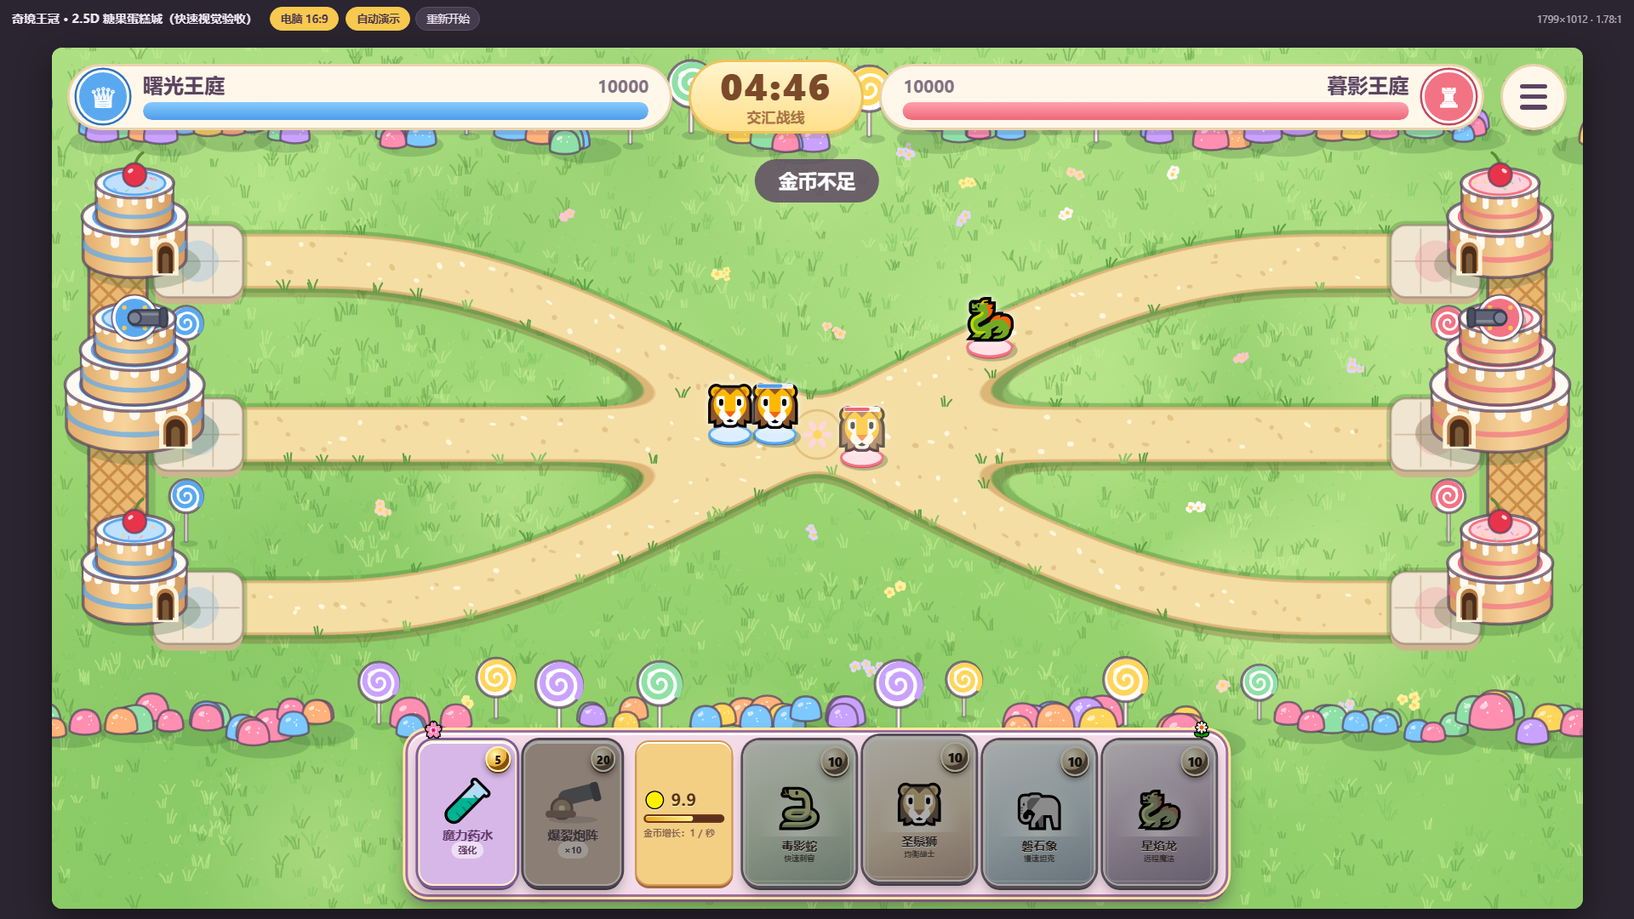
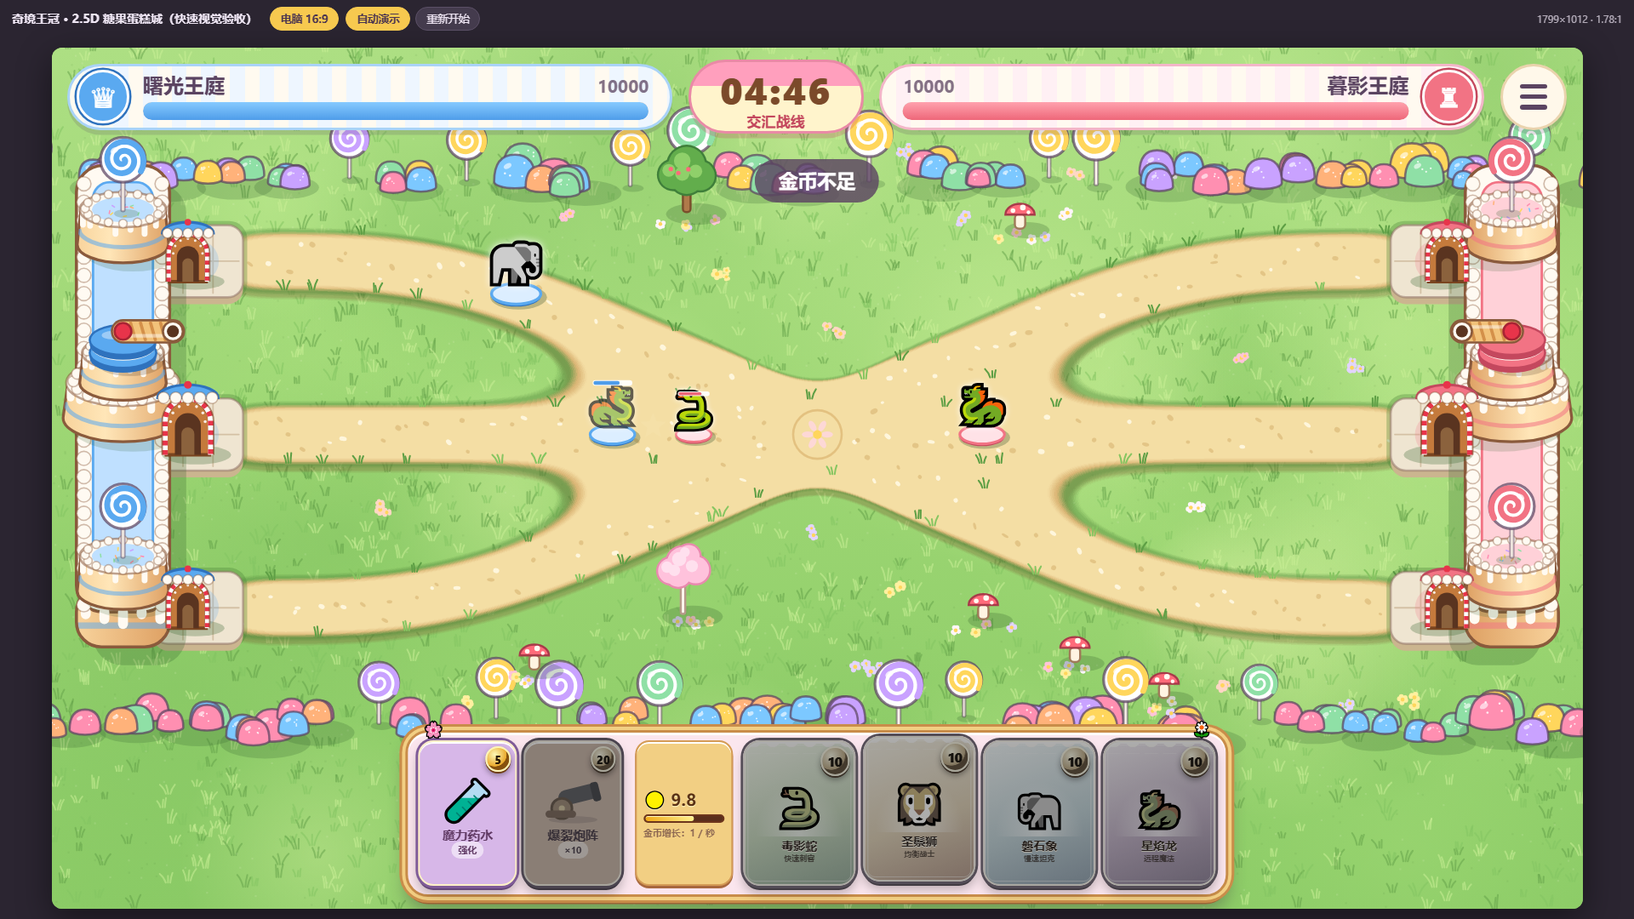
design: 2.5D preview round 2 - cake palace, candy cannon, scenery, candy HUD

diff --git a/design/ui-preview-25d.html b/design/ui-preview-25d.html
@@ -133,6 +133,15 @@ body.fill #stage{border-radius:0;box-shadow:none}
 #hand .skill.burst{margin-right:.45rem}
 #hand .coins{margin-right:.2rem}
 
+/* 糖果风顶栏与托盘 */
+.plate.panel{background:repeating-linear-gradient(90deg,#fffaf0 0 1.1rem,#fff0f4 1.1rem 2.2rem);border-color:#f3b6c8}
+.plate.player.panel{background:repeating-linear-gradient(90deg,#fffaf0 0 1.1rem,#eef6ff 1.1rem 2.2rem);border-color:#a9d3f7}
+.timer{background:linear-gradient(#ff9fbd 0 34%,#fff4cc 34%);border-color:#e98aa6;box-shadow:0 .35rem 0 rgba(196,72,94,.25)}
+.timer b{margin-top:.6rem}
+.timer small{color:#c4485e}
+#hand{border-color:#c98d4a;background:#fbe6ee;box-shadow:inset 0 .19rem 0 #fff,0 0 0 max(1.5px,.25rem) #f2cf83,0 0 0 max(2.5px,.45rem) #c98d4a,0 .55rem 0 #9c6436,0 .95rem 1.2rem rgba(56,40,61,.35)}
+.card{background:radial-gradient(circle at 50% 0,#fffaf2 .5rem,transparent .53rem) 0 -.12rem/1.4rem 1rem repeat-x,var(--card-bg)}
+
 /* ---------- 竖屏提示（仅自适应模式） ---------- */
 #rotate{position:absolute;inset:0;display:none;place-content:center;text-align:center;gap:12px;background:#2b2531;color:#fff;font-size:16px;z-index:5}
 #rotate .ico{font-size:44px;font-family:var(--emoji)}
@@ -329,7 +338,7 @@ function buildGeometry(w, h) {
     wy0: ys[0] - rw * 1.05, wy1: ys[2] + rw * 1.05,
     unitR: rw * .3,
     k: L / 1070,                                    // 原版道路长 1070 px → 当前像素的换算系数
-    pivot: { player: { x: m + T * .7, y: ys[1] + road * .25 - T * (.82 * .38 * .8 + 1.3) }, enemy: { x: w - m - T * .7, y: ys[1] + road * .25 - T * (.82 * .38 * .8 + 1.3) } }
+    pivot: { player: { x: m + T * .56, y: ys[1] - T * .98 }, enemy: { x: w - m - T * .56, y: ys[1] - T * .98 } }
   };
 }
 
@@ -399,7 +408,7 @@ function roadMask(F, width, color, dpr) {
   circle(ga, F.cx, F.cy, F.road * .62 + (width - F.road) / 2); ga.fill();
   const b = document.createElement('canvas'); b.width = W; b.height = H;
   const gb = b.getContext('2d', { willReadFrequently: true });
-  const sigma = F.road * .45, edge = .5 * erf(width / (sigma * Math.SQRT2)) * 255, lo = edge - 3, hi = edge + 3;
+  const sigma = F.road * .8, edge = .5 * erf(width / (sigma * Math.SQRT2)) * 255, lo = edge - 3, hi = edge + 3;
   gb.filter = `blur(${(sigma * dpr).toFixed(1)}px)`; gb.drawImage(a, 0, 0); gb.filter = 'none';
   const img = gb.getImageData(0, 0, W, H), d = img.data;
   for (let i = 3; i < d.length; i += 4) { const v = d[i]; d[i] = v <= lo ? 0 : v >= hi ? 255 : (v - lo) / (hi - lo) * 255; d[i - 3] = d[i - 2] = d[i - 1] = 255; }
@@ -462,6 +471,31 @@ function drawPlatforms(g, F) {
     }
   }
 }
+function drawTree(g, x, y, r, rnd, S0, kind) {
+  const lw = Math.max(1, 1.5 * S0);
+  g.fillStyle = 'rgba(52,96,44,.25)'; g.beginPath(); g.ellipse(x + r * .3, y + r * .08, r * .95, r * .34, 0, 0, TAU); g.fill();
+  if (kind === 'mush') {
+    g.fillStyle = '#fff4e2'; g.strokeStyle = '#a07a5a'; g.lineWidth = lw; rr(g, x - r * .22, y - r * .6, r * .44, r * .62, r * .18); g.fill(); g.stroke();
+    g.fillStyle = '#ff6b7a'; g.strokeStyle = '#a83a4a'; g.beginPath(); g.ellipse(x, y - r * .58, r * .62, r * .46, 0, Math.PI, 0); g.closePath(); g.fill(); g.stroke();
+    g.fillStyle = '#fffaf2'; for (const [dx, dy, dr] of [[-.3, -.75, .1], [.12, -.88, .12], [.36, -.68, .08]]) { circle(g, x + dx * r, y + dy * r, dr * r); g.fill(); }
+    return;
+  }
+  if (kind === 'cotton') {
+    g.fillStyle = '#fffaf2'; g.strokeStyle = '#b89a8a'; g.lineWidth = lw; rr(g, x - r * .07, y - r * 1.15, r * .14, r * 1.15, r * .07); g.fill(); g.stroke();
+    const c = rnd() < .5 ? ['#ffc2dc', '#ffe0ee', '#e98aae'] : ['#bfe3ff', '#e2f2ff', '#7cb8e8'];
+    const puffs = [[0, -1.6, .5], [-.38, -1.35, .4], [.4, -1.38, .42], [-.15, -1.25, .4], [.18, -1.82, .34]];
+    for (const [dx, dy, pr] of puffs) { circle(g, x + dx * r, y + dy * r, pr * r + lw); g.fillStyle = c[2]; g.fill(); }
+    for (const [dx, dy, pr] of puffs) { circle(g, x + dx * r, y + dy * r, pr * r); g.fillStyle = c[0]; g.fill(); }
+    for (const [dx, dy, pr] of puffs) { circle(g, x + (dx - .12) * r, y + (dy - .12) * r, pr * r * .45); g.fillStyle = c[1]; g.fill(); }
+    return;
+  }
+  g.fillStyle = '#b07a4a'; g.strokeStyle = '#7a4f2c'; g.lineWidth = lw; rr(g, x - r * .12, y - r * .9, r * .24, r * .92, r * .1); g.fill(); g.stroke();
+  const leaves = [[0, -1.45, .58], [-.42, -1.15, .45], [.42, -1.12, .46], [0, -1.05, .5]];
+  for (const [dx, dy, pr] of leaves) { circle(g, x + dx * r, y + dy * r, pr * r + lw); g.fillStyle = '#3f7f3a'; g.fill(); }
+  for (const [dx, dy, pr] of leaves) { circle(g, x + dx * r, y + dy * r, pr * r); g.fillStyle = '#62ad4c'; g.fill(); }
+  for (const [dx, dy, pr] of leaves) { circle(g, x + (dx - .14) * r, y + (dy - .14) * r, pr * r * .45); g.fillStyle = '#8fd06a'; g.fill(); }
+  g.fillStyle = '#ff6b7a'; for (let k = 0; k < 3; k++) { circle(g, x + (rnd() - .5) * r, y - r * (1.1 + rnd() * .5), r * .07); g.fill(); }
+}
 function drawGround(g, F) {
   const { w, h, rw, S0 } = F, rnd = rng(20261006);
   const base = g.createLinearGradient(0, 0, 0, h);
@@ -492,9 +526,22 @@ function drawGround(g, F) {
   // 上下边缘灌木带（远离三路，压在 HUD 背后）
   const br = rw * .5, step = br * 1.7;
   for (let x = -br * .5; x < w + br; x += step * (.8 + rnd() * .4)) {
-    drawBush(g, x, Math.min(F.ys[0] - rw * 1.45, F.top) - rnd() * br * .5, br * (.75 + rnd() * .35), rnd, S0);
+    drawBush(g, x, Math.min(F.ys[0] - rw * 1.45, F.top) + br * 1.2 - rnd() * br * .3, br * (.75 + rnd() * .35), rnd, S0);
     drawBush(g, x + step * .5, Math.max(F.ys[2] + rw * 1.55, F.bottom - br * .2) + rnd() * br * .6, br * (.8 + rnd() * .35), rnd, S0);
   }
+  // 空白草地点缀：树、棉花糖树、小蘑菇，周围带几朵花；中央交汇区保持干净
+  const deco = [];
+  for (let i = 0; i < 260 && deco.length < 20; i++) {
+    const x = lerp(F.x1L + rw * 1.5, F.x1R - rw * 1.5, rnd()), y = lerp(F.ys[0] - rw * .8, F.ys[2] + rw * 1.3, rnd());
+    if (Math.abs(x - F.cx) < rw * 1.3 || !farFromRoads(F, x, y, rw * .95)) continue;
+    if (deco.some(d => Math.hypot(d.x - x, d.y - y) < rw * 1.15)) continue;
+    deco.push({ x, y, k: rnd() });
+  }
+  deco.sort((a, b) => a.y - b.y).forEach(d => {
+    const kind = d.k < .38 ? 'tree' : d.k < .68 ? 'cotton' : 'mush';
+    for (let j = 0; j < 4; j++) drawFlower(g, d.x + (rnd() - .5) * rw * .9, d.y + rw * (.05 + rnd() * .2), Math.max(1.2, 2.2 * S0), pet[j % pet.length], rnd);
+    drawTree(g, d.x, d.y, rw * (kind === 'mush' ? .34 : .46), rnd, S0, kind);
+  });
   // 交汇区内侧四块草地各一丛
   for (const [fx, fy] of [[.3, -.5], [.7, -.5], [.3, .5], [.7, .5]]) {
     const x = lerp(F.rs, F.re, fx), y = F.cy + fy * F.s;
@@ -531,105 +578,102 @@ function drawRoundTower(g, F, x, y, r, team, flagT) {
   g.fillStyle = team.main; g.strokeStyle = '#fff'; g.lineWidth = Math.max(1, 1.4 * S0);
   g.beginPath(); g.moveTo(x, y - r * .1); g.quadraticCurveTo(x + T * .45, y - r * .3 + wave, x + T * .85, y - r * .45 + wave); g.lineTo(x, y - r * .8); g.closePath(); g.fill(); g.stroke();
 }
-const CAKE_SQUASH = .38;
+const CAKE_SQUASH = .4, CAKE_LINE = '#8a5a3c';
+function cream(g, x, y, r, S0) { circle(g, x, y, r); g.fillStyle = '#fffaf2'; g.fill(); g.strokeStyle = 'rgba(138,90,60,.4)'; g.lineWidth = Math.max(.8, S0); g.stroke(); }
 function cakeTier(g, F, cx, by, rx, h, team, rnd) {
-  const ry = rx * CAKE_SQUASH, S0 = F.S0, lw = Math.max(1.2, 2.2 * S0);
-  // 侧面：海绵蛋糕
-  const side = new Path2D(); side.moveTo(cx - rx, by - h); side.lineTo(cx - rx, by); side.ellipse(cx, by, rx, ry, 0, Math.PI, 0, true); side.lineTo(cx + rx, by - h); side.closePath();
-  const sg = g.createLinearGradient(cx - rx, 0, cx + rx, 0); sg.addColorStop(0, '#e2ad6c'); sg.addColorStop(.42, '#f7d49c'); sg.addColorStop(1, '#d59a5c');
-  g.fillStyle = sg; g.fill(side); g.strokeStyle = INK; g.lineWidth = lw; g.stroke(side);
-  // 果酱夹层
-  g.save(); g.clip(side); g.strokeStyle = team.main; g.globalAlpha = .7; g.lineWidth = h * .13;
-  g.beginPath(); g.ellipse(cx, by - h * .42, rx, ry, 0, 0, Math.PI); g.stroke(); g.restore();
-  // 顶部奶油 + 前侧滴落
+  const ry = rx * CAKE_SQUASH, rt = rx * .92, rty = rt * CAKE_SQUASH, S0 = F.S0, lw = Math.max(1.2, 2 * S0), ty = by - h;
+  const side = new Path2D(); side.moveTo(cx - rt, ty); side.lineTo(cx - rx, by); side.ellipse(cx, by, rx, ry, 0, Math.PI, 0, true); side.lineTo(cx + rt, ty); side.closePath();
+  const sg = g.createLinearGradient(cx - rx, 0, cx + rx, 0); sg.addColorStop(0, '#f8d39c'); sg.addColorStop(.35, '#ffe6b8'); sg.addColorStop(1, '#dea063');
+  g.fillStyle = sg; g.fill(side); g.strokeStyle = CAKE_LINE; g.lineWidth = lw; g.stroke(side);
+  g.save(); g.clip(side); g.strokeStyle = team.main; g.globalAlpha = .55; g.lineWidth = h * .12;
+  g.beginPath(); g.ellipse(cx, by - h * .45, (rx + rt) / 2, ry, 0, 0, Math.PI); g.stroke(); g.restore();
   g.fillStyle = '#fffaf2';
-  g.beginPath(); g.ellipse(cx, by - h, rx * 1.02, ry * 1.02, 0, 0, TAU); g.fill();
-  for (let k = 0; k < 7; k++) {
-    const a = .12 * Math.PI + k / 6 * .76 * Math.PI, x = cx + Math.cos(a) * rx * .98, y = by - h + Math.sin(a) * ry, len = h * (.18 + ((k * 37) % 5) * .05);
-    rr(g, x - rx * .08, y - ry * .2, rx * .16, len + ry * .2, rx * .08); g.fill();
-  }
-  g.strokeStyle = INK; g.lineWidth = lw; g.beginPath(); g.ellipse(cx, by - h, rx * 1.02, ry * 1.02, 0, 0, TAU); g.stroke();
-  // 阵营色糖霜 + 糖粒
-  g.fillStyle = team.light; g.beginPath(); g.ellipse(cx, by - h, rx * .8, ry * .8, 0, 0, TAU); g.fill();
-  g.strokeStyle = team.main; g.lineWidth = Math.max(1, 1.8 * S0); g.stroke();
+  for (let k = 0; k < 8; k++) { const a = .1 * Math.PI + k / 7 * .8 * Math.PI, x = cx + Math.cos(a) * rt, y = ty + Math.sin(a) * rty; rr(g, x - rt * .07, y - rty * .2, rt * .14, h * (.22 + ((k * 37) % 5) * .06), rt * .07); g.fill(); }
+  g.beginPath(); g.ellipse(cx, ty, rt * 1.03, rty * 1.05, 0, 0, TAU); g.fill(); g.strokeStyle = 'rgba(138,90,60,.55)'; g.lineWidth = lw * .8; g.stroke();
+  g.fillStyle = team.light; g.beginPath(); g.ellipse(cx, ty, rt * .74, rty * .74, 0, 0, TAU); g.fill();
   for (let k = 0; k < 9; k++) {
-    const a = rnd() * TAU, d = .25 + rnd() * .45; g.save(); g.translate(cx + Math.cos(a) * rx * d, by - h + Math.sin(a) * ry * d); g.rotate(rnd() * TAU);
-    g.fillStyle = CANDY[k % CANDY.length]; rr(g, -rx * .06, -rx * .018, rx * .12, rx * .036, rx * .018); g.fill(); g.restore();
+    const a = rnd() * TAU, d = .15 + rnd() * .45; g.save(); g.translate(cx + Math.cos(a) * rt * d, ty + Math.sin(a) * rty * d); g.rotate(rnd() * TAU);
+    g.fillStyle = CANDY[k % CANDY.length]; rr(g, -rt * .05, -rt * .016, rt * .1, rt * .032, rt * .016); g.fill(); g.restore();
   }
-  return ry;
+  for (let k = 0; k < 16; k++) { const a = k / 16 * TAU; cream(g, cx + Math.cos(a) * rt * .9, ty + Math.sin(a) * rty * .9 - rt * .03, rt * .1, S0); }
+  return ty;
 }
-function cakeGate(g, F, cx, by, rx, ry, h) {
-  const gx = cx + rx * .6, gb = by + ry * .78, aw = rx * .42, ah = h * .8, S0 = F.S0;
-  const arch = (w, top) => { g.beginPath(); g.moveTo(gx - w / 2, gb); g.lineTo(gx - w / 2, top + w / 2); g.arc(gx, top + w / 2, w / 2, Math.PI, 0); g.lineTo(gx + w / 2, gb); g.closePath(); };
-  arch(aw, gb - ah); g.fillStyle = '#b77a45'; g.fill(); g.strokeStyle = '#fff2d8'; g.lineWidth = Math.max(1.5, 3 * S0); g.stroke();
-  arch(aw * .66, gb - ah * .82); g.fillStyle = '#4a2c1a'; g.fill();
-  g.fillStyle = 'rgba(255,214,140,.28)'; arch(aw * .3, gb - ah * .6); g.fill();
-}
-function cherry(g, F, x, y, r) {
-  g.strokeStyle = '#5f8a3a'; g.lineWidth = Math.max(1.2, 2.2 * F.S0); g.lineCap = 'round';
-  g.beginPath(); g.moveTo(x, y - r * .7); g.quadraticCurveTo(x + r * .2, y - r * 1.6, x + r * .7, y - r * 1.9); g.stroke();
-  circle(g, x, y, r); g.fillStyle = '#e8344a'; g.fill(); g.strokeStyle = INK; g.lineWidth = Math.max(1, 1.6 * F.S0); g.stroke();
-  g.fillStyle = 'rgba(255,255,255,.8)'; g.beginPath(); g.ellipse(x - r * .35, y - r * .35, r * .25, r * .16, -.6, 0, TAU); g.fill();
+function gingerGate(g, F, x, base, w, h, team) {
+  const S0 = F.S0, lw = Math.max(1.5, 2.4 * S0);
+  const arch = (ww, hh) => { g.beginPath(); g.moveTo(x - ww / 2, base); g.lineTo(x - ww / 2, base - hh + ww / 2); g.arc(x, base - hh + ww / 2, ww / 2, Math.PI, 0); g.lineTo(x + ww / 2, base); };
+  g.fillStyle = 'rgba(52,96,44,.28)'; g.beginPath(); g.ellipse(x + w * .2, base, w * .8, w * .22, 0, 0, TAU); g.fill();
+  arch(w, h); g.closePath(); g.fillStyle = '#c47a3c'; g.fill(); g.strokeStyle = '#7a4520'; g.lineWidth = lw; g.stroke();
+  g.fillStyle = 'rgba(255,255,255,.85)'; for (let k = 0; k < 7; k++) { const a = Math.PI + k / 6 * Math.PI; circle(g, x + Math.cos(a) * w * .4, base - h + w / 2 + Math.sin(a) * w * .4, Math.max(1, w * .035)); g.fill(); }
+  arch(w * .6, h * .76); g.closePath(); g.fillStyle = '#5a3420'; g.fill();
+  arch(w * .3, h * .5); g.closePath(); g.fillStyle = 'rgba(255,206,130,.3)'; g.fill();
+  arch(w * 1.06, h * 1.03); g.lineCap = 'butt'; g.lineWidth = w * .13; g.strokeStyle = '#fff'; g.stroke();
+  g.setLineDash([w * .11, w * .11]); g.strokeStyle = '#e8344a'; g.stroke(); g.setLineDash([]);
+  g.lineWidth = Math.max(1, 1.2 * S0); g.strokeStyle = 'rgba(122,69,32,.6)'; arch(w * 1.19, h * 1.07); g.stroke();
+  const ay = base - h * 1.04, aw = w * 1.4;
+  g.beginPath(); g.ellipse(x, ay, aw / 2, w * .3, 0, Math.PI, 0); g.closePath(); g.fillStyle = team.main; g.fill(); g.strokeStyle = team.dark; g.lineWidth = lw * .8; g.stroke();
+  for (let k = 0; k < 5; k++) cream(g, x - aw / 2 + aw * (k + .5) / 5, ay, aw / 10.5, S0);
+  circle(g, x, ay - w * .3, w * .09); g.fillStyle = '#e8344a'; g.fill();
 }
 function drawWall(g, F, side, st) {
-  const { T, ys, S0 } = F, team = TEAM[side], cx = F.m + T * .7, rnd = rng(side === 'player' ? 21 : 37);
+  const { T, ys, S0 } = F, team = TEAM[side], rnd = rng(side === 'player' ? 21 : 37), lw = Math.max(1.2, 2.2 * S0);
   g.save();
   if (side === 'enemy') { g.translate(F.w, 0); g.scale(-1, 1); }
   if (st.shake > 0) g.translate((Math.random() - .5) * 4 * S0 * st.shake, (Math.random() - .5) * 2 * S0 * st.shake);
-  const baseY = (y, rx0) => y + F.road * .25 - rx0 * CAKE_SQUASH * .78;
-  // 身后的威化饼墙
-  const wx = cx - T * .55, ww = T * .7, wh = T * .5, wy0 = ys[0], wy1 = ys[2];
-  g.fillStyle = 'rgba(52,96,44,.2)'; rr(g, wx + T * .1, wy0, ww, wy1 - wy0 + T * .2, T * .15); g.fill();
-  g.fillStyle = '#c98d4a'; rr(g, wx, wy1 - wh, ww, wh, T * .1); g.fill();
-  g.save(); rr(g, wx, wy0 - wh, ww, wy1 - wy0, T * .12); g.fillStyle = '#e9b872'; g.fill(); g.clip();
-  g.strokeStyle = '#c98d4a'; g.lineWidth = Math.max(1, 2 * S0); g.beginPath();
-  for (let k = -20; k < 40; k++) { const o = k * T * .22; g.moveTo(wx, wy0 - wh + o); g.lineTo(wx + ww, wy0 - wh + o + ww); g.moveTo(wx + ww, wy0 - wh + o); g.lineTo(wx, wy0 - wh + o + ww); }
-  g.stroke(); g.restore();
-  rr(g, wx, wy0 - wh, ww, wy1 - wy0, T * .12); g.strokeStyle = INK; g.lineWidth = Math.max(1.2, 2.2 * S0); g.stroke();
-  // 塔：从上到下画，保证前面的塔压住后面的
-  const tower = (i, tiers, top) => {
-    let by = baseY(ys[i], tiers[0][0] * T);
-    g.fillStyle = 'rgba(52,96,44,.25)'; g.beginPath(); g.ellipse(cx + T * .1, by + T * .08, tiers[0][0] * T * 1.12, tiers[0][0] * T * CAKE_SQUASH * 1.25, 0, 0, TAU); g.fill();
-    tiers.forEach(([rf, hf], k) => {
-      const rx = rf * T, h = hf * T, ry = cakeTier(g, F, cx, by, rx, h, team, rnd);
-      if (k === 0) cakeGate(g, F, cx, by, rx, ry, h);
-      by -= h;
-    });
-    if (top === 'cherry') cherry(g, F, cx, by - T * .1, T * .14);
-  };
-  tower(0, [[.62, .5], [.46, .4]], 'cherry');
-  lolly(g, cx + T * .62, (ys[0] + ys[1]) / 2 + T * .25, T * .2, team.main, S0, T * .55);
-  tower(1, [[.82, .5], [.64, .42], [.48, .38]], 'cannon');
-  lolly(g, cx + T * .62, (ys[1] + ys[2]) / 2 + T * .25, T * .2, team.main, S0, T * .55);
-  tower(2, [[.62, .5], [.46, .4]], 'cherry');
-  if (st.flash > 0) { g.globalCompositeOperation = 'lighter'; g.fillStyle = `rgba(255,255,255,${st.flash * .35})`; rr(g, F.m - T * .4, ys[0] - T * 1.4, T * 2.2, ys[2] - ys[0] + T * 1.8, T * .4); g.fill(); }
+  const x0 = F.m, x1 = F.m + T * 1.12, yt0 = ys[0] - T * 1.15, yt1 = ys[2] + T * .05, fh = T * .42, cx = F.m + T * .56, ww = x1 - x0;
+  // 投影（光源左上）
+  g.fillStyle = 'rgba(52,96,44,.26)'; rr(g, x0 + T * .2, yt0 + T * .22, ww, yt1 - yt0 + fh, T * .35); g.fill();
+  // 南侧立面：海绵 + 果酱夹层 + 奶油滴落
+  const face = new Path2D(); face.roundRect(x0, yt1 - T * .3, ww, fh + T * .3, T * .3);
+  const sg = g.createLinearGradient(x0, 0, x1, 0); sg.addColorStop(0, '#f8d39c'); sg.addColorStop(1, '#dea063');
+  g.fillStyle = sg; g.fill(face); g.save(); g.clip(face); g.fillStyle = team.main; g.globalAlpha = .5; g.fillRect(x0, yt1 + fh * .3, ww, fh * .18); g.restore();
+  g.strokeStyle = CAKE_LINE; g.lineWidth = lw; g.stroke(face);
+  // 顶面奶油
+  rr(g, x0, yt0, ww, yt1 - yt0, T * .32); g.fillStyle = '#fffaf2'; g.fill(); g.strokeStyle = CAKE_LINE; g.lineWidth = lw; g.stroke();
+  g.fillStyle = '#fffaf2'; for (let k = 0; k < 5; k++) { rr(g, x0 + ww * (k + .5) / 5 - T * .06, yt1 - T * .06, T * .12, fh * (.35 + (k % 3) * .14), T * .06); g.fill(); }
+  rr(g, x0 + T * .2, yt0 + T * .2, ww - T * .4, yt1 - yt0 - T * .4, T * .2); g.fillStyle = team.light; g.fill(); g.strokeStyle = team.main; g.lineWidth = lw * .8; g.stroke();
+  for (let y = yt0 + T * .22; y < yt1 - T * .05; y += T * .22) { cream(g, x0 + T * .09, y, T * .085, S0); cream(g, x1 - T * .09, y, T * .085, S0); }
+  // 三座塔与三道门，按屏幕 y 从上到下画
+  for (let i = 0; i < 3; i++) {
+    const main = i === 1, tiers = main ? [[.72, .42], [.52, .36]] : [[.55, .42]];
+    let by = ys[i] - T * .2, top = by;
+    g.fillStyle = 'rgba(52,96,44,.18)'; g.beginPath(); g.ellipse(cx + T * .12, by + T * .06, tiers[0][0] * T * 1.08, tiers[0][0] * T * CAKE_SQUASH * 1.2, 0, 0, TAU); g.fill();
+    for (const [rf, hf] of tiers) { top = cakeTier(g, F, cx, by, rf * T, hf * T, team, rnd); by -= hf * T; }
+    if (!main) lolly(g, cx, top + T * .02, T * .27, team.main, S0, T * .62);
+    gingerGate(g, F, F.m + T * 1.34, ys[i] + F.road * .42, T * (main ? .52 : .44), T * (main ? .66 : .56), team);
+  }
+  if (st.flash > 0) { g.globalCompositeOperation = 'lighter'; g.fillStyle = `rgba(255,255,255,${st.flash * .35})`; rr(g, x0 - T * .2, yt0 - T * .8, T * 1.9, yt1 - yt0 + T * 1.4, T * .4); g.fill(); }
   g.restore();
 }
 
 /* ---------- 墙顶主炮 ---------- */
-function cannonDims(F) { return { R: F.rw * .3, bl: F.rw * .56, bw: F.rw * .22 }; }
+function cannonDims(F) { return { R: F.T * .4, bl: F.T * .6, bw: F.T * .24, hb: F.T * .2 }; }
 function muzzle(F, side, angle) {
-  const p = F.pivot[side], { bl, bw } = cannonDims(F);
-  return { x: p.x + Math.cos(angle) * (bl - bw * .1), y: p.y + Math.sin(angle) * (bl - bw * .1) };
+  const p = F.pivot[side], { bl, hb } = cannonDims(F);
+  return { x: p.x + Math.cos(angle) * bl, y: p.y - hb - F.T * .06 + Math.sin(angle) * bl * .55 };
 }
 function drawCannon(g, F, side, st) {
-  const p = F.pivot[side], { R, bl, bw } = cannonDims(F), S0 = F.S0, team = TEAM[side];
+  const p = F.pivot[side], { R, bl, bw, hb } = cannonDims(F), S0 = F.S0, team = TEAM[side], ry = R * .45, lw = Math.max(1, 1.6 * S0);
   g.save(); g.translate(p.x, p.y);
-  g.fillStyle = 'rgba(40,60,40,.25)'; g.beginPath(); g.ellipse(R * .14, R * .22, R * 1.12, R * .95, 0, 0, TAU); g.fill();
-  g.fillStyle = team.main; circle(g, 0, 0, R); g.fill();
-  g.strokeStyle = '#fff'; g.lineWidth = Math.max(1.2, 2.4 * S0); g.stroke();
-  g.strokeStyle = INK; g.lineWidth = Math.max(1, 1.2 * S0); circle(g, 0, 0, R + 1.5 * S0); g.stroke();
-  g.fillStyle = '#f7c94f'; for (let i = 0; i < 4; i++) { const a = i * TAU / 4 + TAU / 8; circle(g, Math.cos(a) * R * .7, Math.sin(a) * R * .7, R * .11); g.fill(); }
-  g.rotate(st.angle); g.translate(-st.recoil * R * .4, 0);
-  g.fillStyle = 'rgba(30,30,40,.2)'; rr(g, -bw * .3, -bw * .5 + 2 * S0, bl, bw, bw * .45); g.fill();
-  g.fillStyle = '#5e6475'; g.strokeStyle = '#3c4050'; g.lineWidth = Math.max(1, 1.5 * S0);
-  rr(g, -bw * .4, -bw / 2, bl, bw, bw * .45); g.fill(); g.stroke();
-  g.fillStyle = 'rgba(255,255,255,.24)'; rr(g, 0, -bw * .32, bl * .72, bw * .17, bw * .08); g.fill();
-  g.fillStyle = '#4b5060'; rr(g, bl - bw * .9, -bw * .62, bw * .48, bw * 1.24, bw * .2); g.fill(); g.stroke();
-  if (st.glow > 0) {
-    g.fillStyle = `rgba(255,214,110,${.25 + st.glow * .5})`; circle(g, bl - bw * .3, 0, bw * (.4 + st.glow * .5)); g.fill();
-  }
-  g.fillStyle = '#7c8296'; circle(g, 0, 0, bw * .42); g.fill(); g.stroke();
+  g.fillStyle = 'rgba(80,60,40,.22)'; g.beginPath(); g.ellipse(R * .2, ry * .5, R * 1.05, ry * 1.05, 0, 0, TAU); g.fill();
+  const disc = (y) => {
+    g.fillStyle = team.dark; g.beginPath(); g.ellipse(0, y + ry * .32, R, ry, 0, 0, TAU); g.fill();
+    g.fillStyle = team.main; g.beginPath(); g.ellipse(0, y, R, ry, 0, 0, TAU); g.fill(); g.strokeStyle = team.dark; g.lineWidth = lw; g.stroke();
+  };
+  disc(0);
+  g.fillStyle = '#fffaf2'; g.beginPath(); g.ellipse(0, -hb * .42, R * .97, ry * .97, 0, 0, TAU); g.fill();
+  disc(-hb * .78);
+  g.fillStyle = 'rgba(255,255,255,.4)'; g.beginPath(); g.ellipse(-R * .32, -hb * .78 - ry * .32, R * .32, ry * .28, 0, 0, TAU); g.fill();
+  const ax = Math.cos(st.angle), ay = Math.sin(st.angle) * .55, len = Math.hypot(ax, ay), nx = -ay / len, ny = ax / len;
+  const rec = st.recoil * R * .3, ox = -ax * rec, oy = -hb - F.T * .06 - ay * rec, ex = ox + ax * bl, ey = oy + ay * bl;
+  const seg = (c, w) => { g.strokeStyle = c; g.lineWidth = w; g.lineCap = 'round'; g.beginPath(); g.moveTo(ox, oy); g.lineTo(ex, ey); g.stroke(); };
+  seg('#8a5a3c', bw + lw * 2); seg('#f2c27a', bw);
+  g.strokeStyle = '#d4904a'; g.lineWidth = bw * .16;
+  for (let k = 1; k <= 4; k++) { const t = k / 5, px = ox + (ex - ox) * t, py = oy + (ey - oy) * t; g.beginPath(); g.moveTo(px - nx * bw * .42 - ax * bw * .12, py - ny * bw * .42 - ay * bw * .12); g.lineTo(px + nx * bw * .42 + ax * bw * .12, py + ny * bw * .42 + ay * bw * .12); g.stroke(); }
+  g.strokeStyle = 'rgba(255,255,255,.45)'; g.lineWidth = bw * .18; g.beginPath(); g.moveTo(ox + nx * bw * .22, oy + ny * bw * .22); g.lineTo(ex + nx * bw * .22, ey + ny * bw * .22); g.stroke();
+  circle(g, ex, ey, bw * .5); g.fillStyle = '#fffaf2'; g.fill(); g.strokeStyle = '#8a5a3c'; g.lineWidth = lw; g.stroke();
+  circle(g, ex, ey, bw * .3); g.fillStyle = '#5a3420'; g.fill();
+  if (st.glow > 0) { circle(g, ex, ey, bw * (.4 + st.glow * .5)); g.fillStyle = `rgba(255,214,110,${.25 + st.glow * .5})`; g.fill(); }
+  circle(g, 0, -hb - F.T * .06, bw * .42); g.fillStyle = '#e8344a'; g.fill(); g.strokeStyle = '#a82434'; g.lineWidth = lw; g.stroke();
   g.restore();
 }
 

diff --git a/TASK_STATE.md b/TASK_STATE.md
@@ -136,7 +136,9 @@ Q2 实现要点：u = max(6.5, min(h/65, w*.0097))（约为原来的 1.35 倍）
 - 不问直接定的小项：中央交汇圆角加大到约原来 2 倍；道路上方糖果装饰下移避开顶栏。
 - 第3轮：轻度透视（上路宽度约为下路的 80%，单位远小近大）；宫殿高度适中、不挡上路；用户要求“这次做精细点，但别钻牛角尖，以视觉验收为主”。
 
-实现方案（断线后照此继续）：
+已完成（2026-10-07，用户催促快速收尾）：交汇圆角加大；顶部糖果装饰下移；空白处加树/棉花糖树/小蘑菇+花；一体蛋糕宫殿（连续蛋糕墙+顶上蛋糕塔+姜饼拐杖糖门+大棒棒糖）；糖果炮（马卡龙底座+威化卷炮管，2.5D 压扁）；顶栏糖果条纹、托盘饼干边、卡牌上沿奶油。未做：地面真透视（改动太大，留待用户确认后再做）。
+
+原实现方案（未全部执行，仅供参考）：
 - 游戏逻辑全部留在“地面坐标”（沿用现有 buildGeometry），绘制时用 proj(gx,gy) 投影到屏幕：x = cx + (gx-cx)*k(gy)，y = gy；k 线性随 gy 变化，k(ys0)/k(ys2)=0.8，k(ys2)=1，下限 0.7。指针输入用反投影。
 - 地面底图：先画在加宽的离屏画布（左右各加 ox，覆盖透视收窄后的空缺），再逐行横向缩放贴到屏幕，结果缓存为 bg。道路蒙版模糊 sigma 加大到约 road*.85，让交汇处圆角更大。
 - 立起来的东西（树、棉花糖树、蘑菇、棒棒糖、平台厚度、宫殿、炮、单位）都在屏幕空间按投影位置和 k 缩放绘制，不跟地面一起拉伸。

diff --git a/LOVABLE_DEPLOY.md b/LOVABLE_DEPLOY.md
@@ -1,5 +1,5 @@
 # Lovable 公网部署
-
+https://qijing-wangguan.lovable.app
 项目根目录已经是可直接托管的静态网页结构：`index.html`、`css/`、`assets/`。
 
 1. 将本项目同步到 GitHub 仓库。
